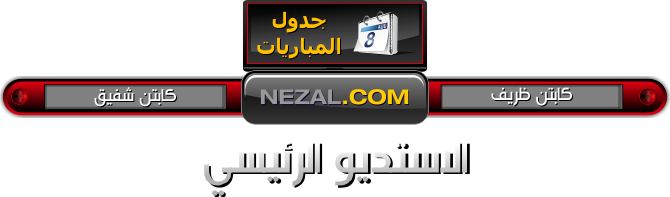
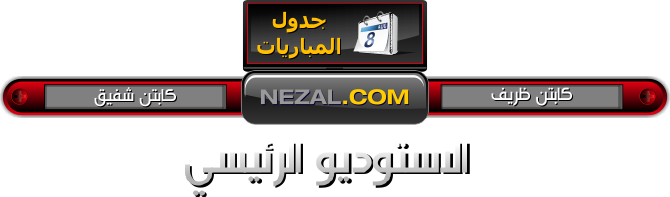
more audio stuff

Changed region(s): [[0.2687, 0.731, 0.597, 1.0]]

diff --git a/studio/public/match.html b/studio/public/match.html
@@ -11,7 +11,7 @@
 		<script src="javascripts/sound.js"></script>
 		<script src="javascripts/template.js"></script>
 		<script src="javascripts/swfobject.js"></script>
-
+		<script src="javascripts/soundmanager2-nodebug-jsmin.js"></script>
 	</head>
 	<!--[if IE]>
 		<style>
@@ -20,19 +20,19 @@
 		</style>
 	<![endif]-->
 	<body id="body">
-<textarea id="data" style="display:none;">أهلاً و مرحباً بكم في استديو التحليل جنوب إفريقيا ٢٠١٠ .
-يعتبر كأس العالم في جنوب إفريقيا النسخة التاسعة عشر منذ انطلاقة البطولة عام ١٩٣٠.
+<textarea id="data" style="display:none;">أهلاً و مرحباً بكم في استوديو التحليل جنوب إفريقيا ٢٠١٠ .
+ يعتبر كأس العالم في جنوب إفريقيا النسخة التاسعة عشر منذ انطلاق البطولة عام ١٩٣٠.
 يشارك في هذه النسخة ٣٢ فريق من مختلف قارات العالم حيث يتنافسون للفوز بأفضل بطولة لكرة القدم.
-المنتخب الإيطالي هو حامل اللقب و يشارك في هذه البطولة للدفاع عن لقبه.
-يمكنكم من خلال هذا الاستديو توقع نتائج مباريات كأس العالم.
+المنتخب الايطالي هو حامل اللقب و يشارك في هذه البطولة للدفاع عن لقبه.
+ يمكنكم من خلال هذا الاستوديو توقع نتائج مباريات كأس العالم.
 كما يمكنكم معرفة معلومات عن جميع الفرق المشاركة في البطولة ومتابعة أهداف البطولة ومعرفة النتائج.
-سوف يمكنكم ايضا معرفة مواعيد المباريات ومتابعة إستديو كل مبارة. 
+سوف يمكنكم ايضا معرفة مواعيد المباريات ومتابعة استديو كل مبارة.
 و لن تقتصر مشاركتكم على المتابعة فقط، بل يمكنكم التعليق ومناقشة أحداث ما قبل وخلال وبعد المبارة.
-تعتمد قواعد اللعبة على التوقع الصحيح لنتائج المبارايات.
-يحصل المشارك على نقطة واحدة في حالة توقع الفريق الفائز و نقطتين في حالة توقع فارق الأهداف الصحيح وثلاث نقات في حالت توقع النتيجة الصحيحة.
-أما في حالة توقع النتيجة خطأ أو عدم إدخال أي توقع سيتم خصم نقطة من اللاعب. 
+ تعتمد قواعد اللعبة على التوقع الصحيح لنتائج المبارايات.
+ يحصل المشارك على نقطة واحدة في حالة توقع الفريق الفائز و نقطتين في حالة توقع فارق الأهداف الصحيح وثلاث نقات في حالت توقع النتيجة الصحيحة.
+أما في حالة توقع النتيجة خطأ أو عدم إدخال أي توقع لن يحصل اللاعب على أي نقطة.
 يمكنكم إدخال توقعاتكم قبل بدء المبارة بيومين و سيتم إيقاف التوقعات بمجرد بدء المبارة.
-و في النهاية نتمنى لكم حظاً طيباً و قضاء وقت ممتع مع إستديو التحليل.
+ و في النهاية نتمنى لكم حظاً طيباً و قضاء وقت ممتع مع استوديو التحليل.
 ابقو معنا.</textarea>
 		<div id="fb-root" style="display:none;"></div>
 		<div id="rankings" style="display:none">
@@ -46,16 +46,20 @@
 				<div id="logo"></div>
 				<div id="score" class="overlay"></div>
 				<div id="left_screen" class="skew_left">
-					<div id="left_screen_content" class="tv_content"><!--img width=200 height=200 src='images/flags/mex.png'/--></div>
+					<div id="left_screen_content" class="tv_content"><!--img width=200 height=200 src='images/flags/mex.png'/-->
+					</div>
 				</div>
 				<div id="center_screen">
 					<div  id="center_screen_content" class="tv_content">
-						<div id="inner_center_screen_content">			
+						<div id="inner_center_screen_content">
 						</div>
 					</div>
 				</div>
 				<div id="right_screen" class="skew_right">
-					<div id="right_screen_content" class="tv_content"><!--img width=200 height=200 src='images/flags/rsa.png'/--></div>
+					<div id="right_screen_content" class="tv_content">
+
+					<!--img width=200 height=200 src='images/flags/rsa.png'/-->
+					</div>
 				</div>
 				<div class="baloon" id="left_baloon" style="display:none">
 					<div class="text" dir="rtl"></div>
@@ -133,6 +137,7 @@
 		<div id="waitScreen"></div>
 		<div id="loadingScreen" style="display:none"></div>
 	</body>
+	<script src="javascripts/game/audio.js"></script>
 	<script src="http://connect.facebook.net/en_US/all.js"></script>
 	<script src="javascripts/facebook.js"></script>
 	<script src="javascripts/game/reactor.js"></script>

diff --git a/studio/public/index.html b/studio/public/index.html
@@ -11,6 +11,7 @@
 		<script src="javascripts/sound.js"></script>
 		<script src="javascripts/template.js"></script>
 		<script src="javascripts/swfobject.js"></script>
+		<script src="javascripts/soundmanager2-nodebug-jsmin.js"></script>
 	</head>
 	<!--[if IE]>
 		<style>
@@ -19,8 +20,8 @@
 		</style>
 	<![endif]-->
 	<body id="body">
-		<div id="loadingScreen">
-			<div><img id="bar" src='images/background/loading.png'/></div>
+		<div id="loadingScreen" style="display:none">
+			<div id="progress"><img id="bar" src='images/background/loading.png'/></div>
 		</div>
 	</body>
 	<script src="http://connect.facebook.net/en_US/all.js"></script>
@@ -28,16 +29,35 @@
 	<script src="javascripts/game/reactor.js"></script>
 	<script src="javascripts/game/timeline.js"></script>
 	<script src="javascripts/game/sms.js"></script>
-	<script src="javascripts/game/studio.js"></script>
 	<script>
+		var image = new Image();
+		var bar = new Image();
+		var sound = null
+		soundManager.url = 'swf/';
+		soundManager.useHTML5Audio = true;
+			soundManager.onload = function(){
+			image.src = 'images/background/loading_screen.png'
+			image.onload = function(){
+				$('loadingScreen').show();
+				bar.src = 'images/background/loading.png'
+				sound = soundManager.createSound({
+				  id: 'score',
+				  url: 'audio/mp3/intro_outro.mp3',
+				  autoLoad: true,
+				  autoPlay: true,
+				  onload : function(){
+					progress()
+				  }
+				})
+			}
+		}
 		function progress(){
 			if($('bar').style.width == '100%' ){
 				window.location.href = 'match.html'
 				return
 			}
 			$('bar').style.width = Number($('bar').style.width.gsub('%','')) + 1 + '%'
-			window.setTimeout(progress, 10)
+			window.setTimeout(progress, 150)
 		}
-		progress()
 	</script>
 </html>

diff --git a/studio/public/stylesheets/game.css b/studio/public/stylesheets/game.css
@@ -211,6 +211,7 @@
 	overflow: hidden;
 	margin-left:7px;
 	margin-top:7px;
+	background: center url('../images/background/snow.gif') no-repeat;
 }
 
 .tv_content img{
